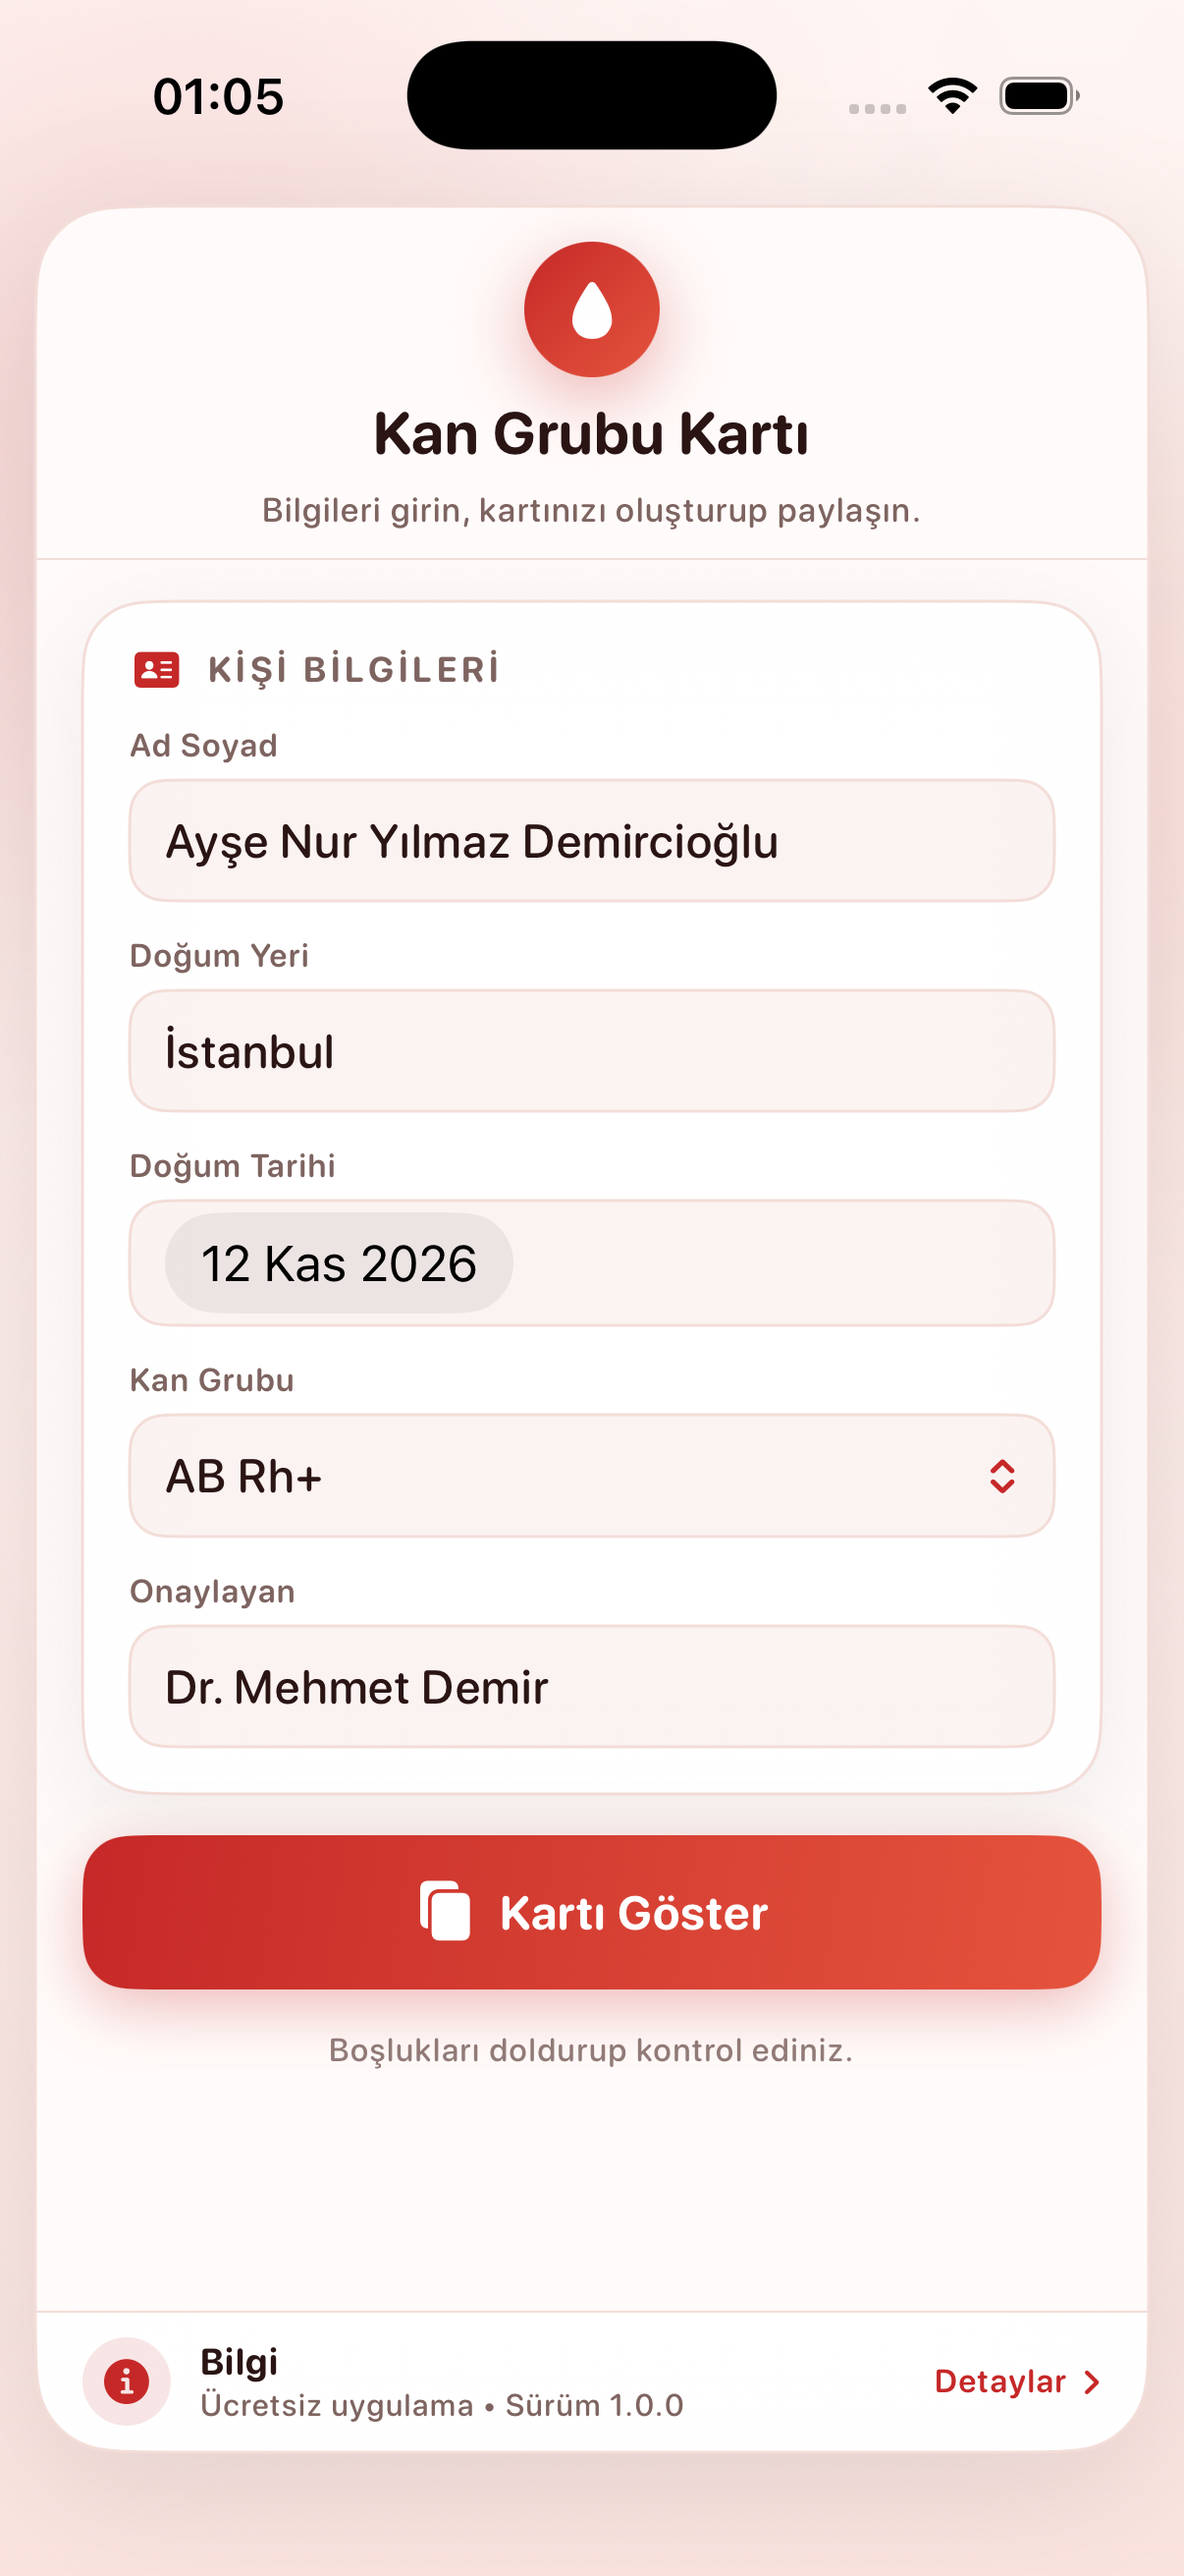
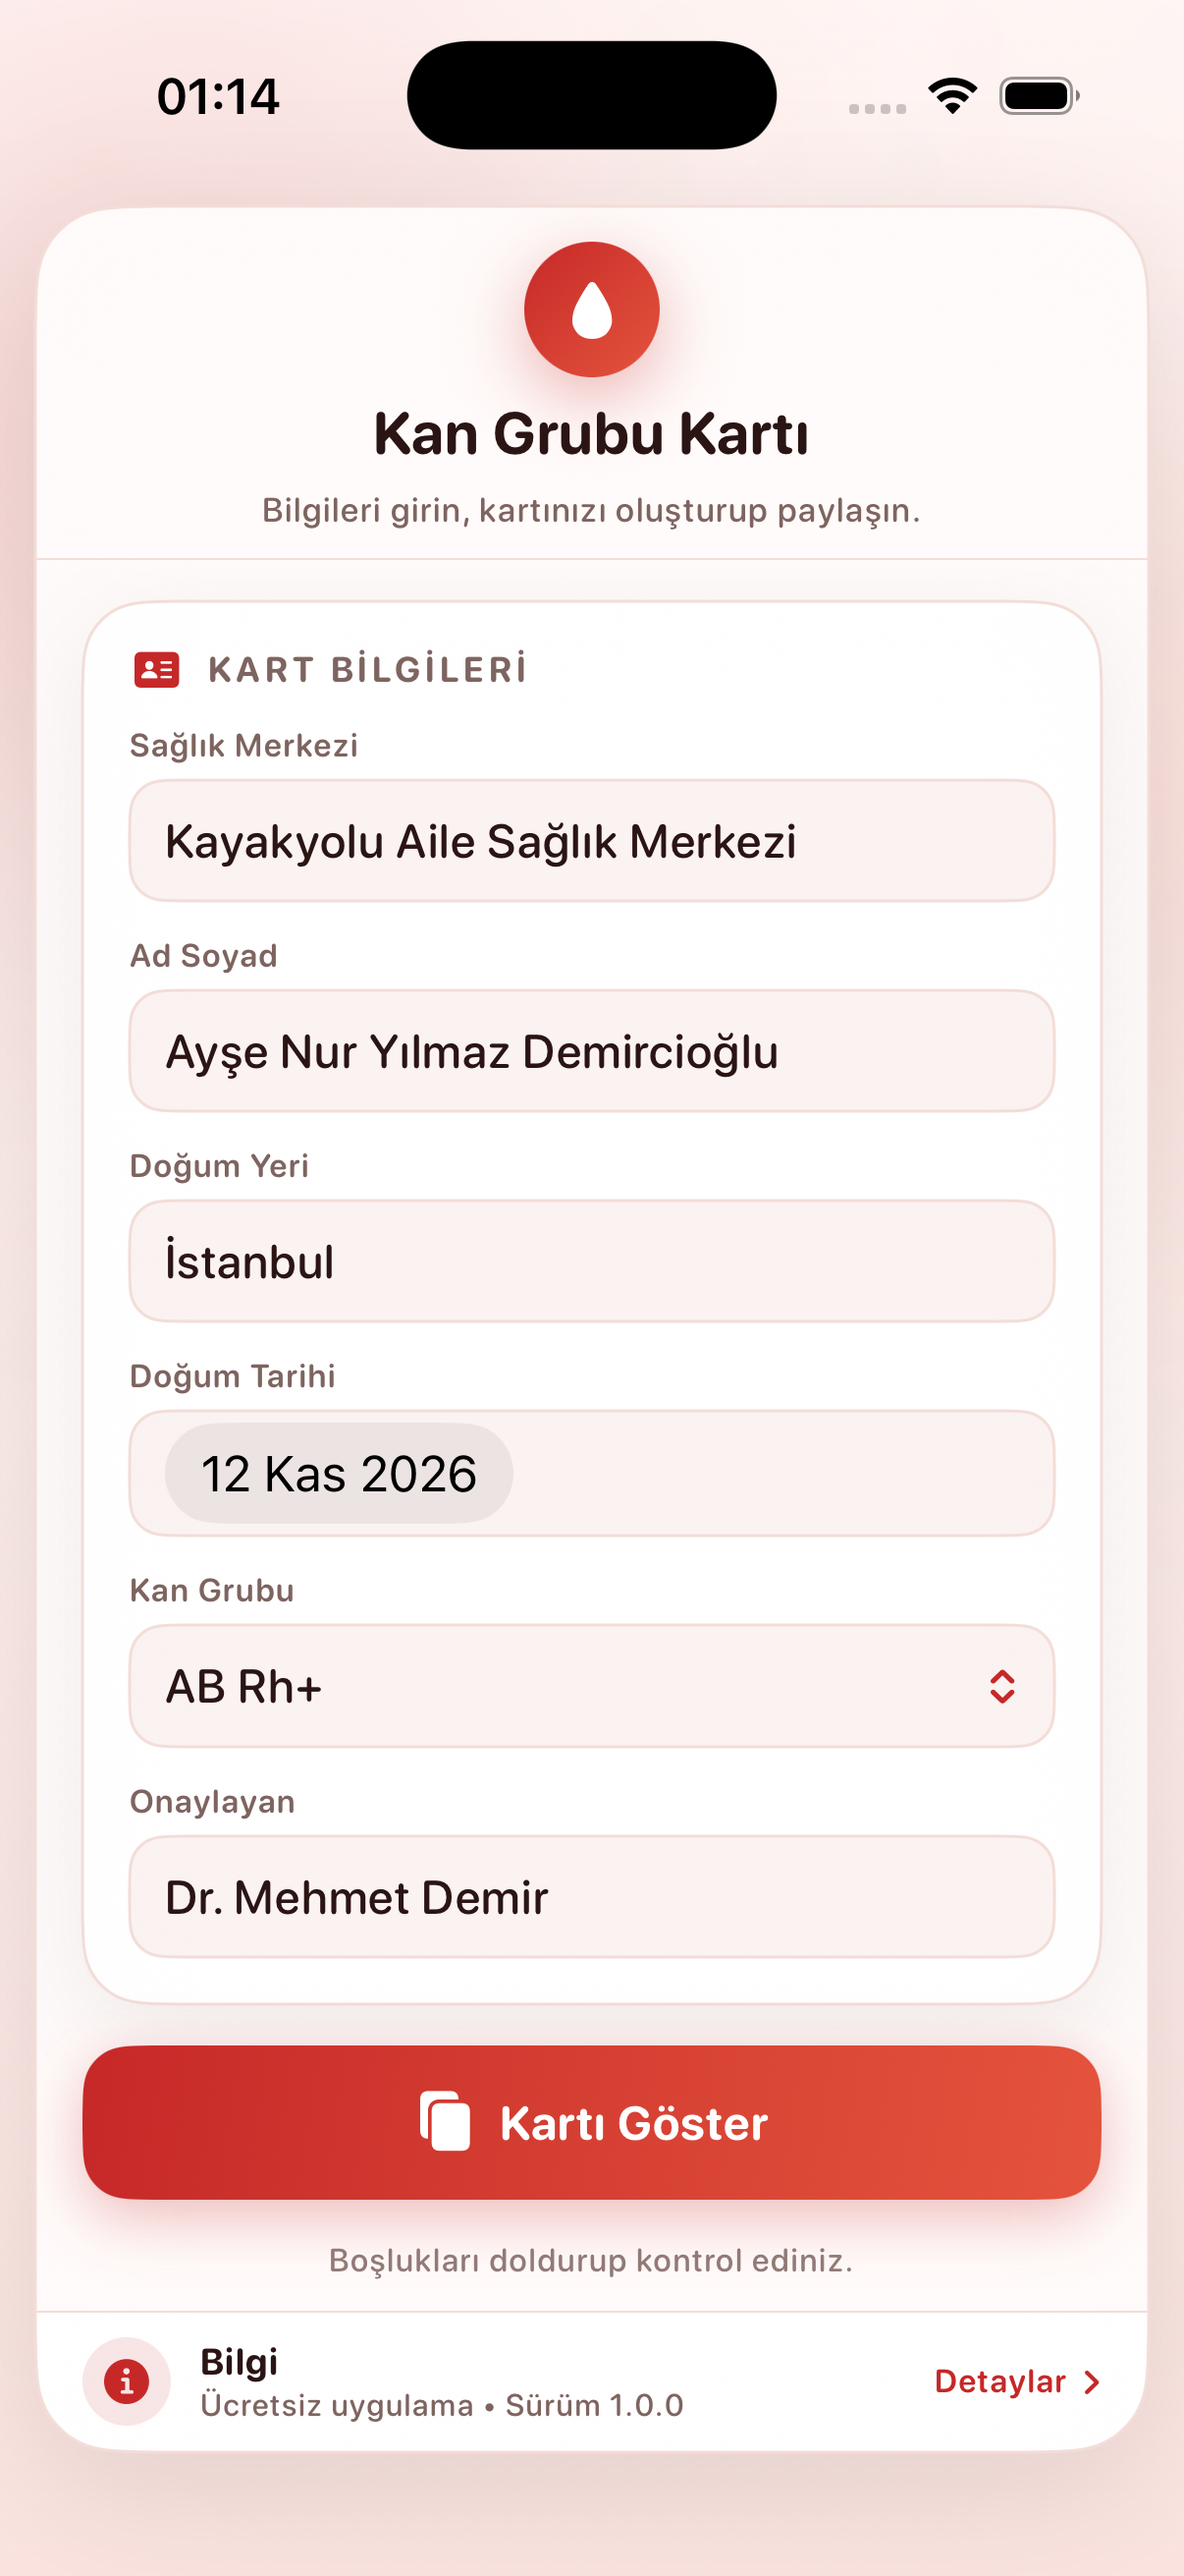
Sağlık merkezi kullanıcı girdisi oldu
- Formun başına Sağlık Merkezi alanı eklendi (6 alan)
- Kartın üst başlığı sabit 'Kayakyolu Aile Sağlık Merkezi' yerine bu alandan geliyor
- Bölüm başlığı 'Kart Bilgileri' olarak güncellendi
- 5 dilde yeni etiket ve yer tutucular; kg.kartMerkez anahtarı kaldırıldı
- README/README.tr ve form/kart ekran görüntüleri güncellendi

diff --git a/Kan Grubu Kartı/ContentView.swift b/Kan Grubu Kartı/ContentView.swift
@@ -47,6 +47,7 @@ private extension UIColor {
 struct ContentView: View {
     @EnvironmentObject private var dil: Yerellestirme
 
+    @State private var saglikMerkezi = ""
     @State private var adSoyad = ""
     @State private var dogumYeri = ""
     @State private var dogumTarihi = Date()
@@ -169,6 +170,10 @@ struct ContentView: View {
         VStack(alignment: .leading, spacing: 12) {
             BolumBasligi(ikon: "person.text.rectangle.fill", baslik: dil.metin("kg.kisiBilgileri"))
 
+            AlanSatiri(baslik: dil.metin("kg.saglikMerkezi"),
+                       placeholder: dil.metin("kg.saglikMerkeziIpucu"),
+                       metin: $saglikMerkezi)
+
             AlanSatiri(baslik: dil.metin("kg.adSoyad"),
                        placeholder: dil.metin("kg.adSoyadIpucu"),
                        metin: $adSoyad)
@@ -226,7 +231,8 @@ struct ContentView: View {
                         ionayDr: onaylayan,
                         idYeri: dogumYeri,
                         idTarihi: dogumTarihi,
-                        ikangrubu: kanGrubu)
+                        ikangrubu: kanGrubu,
+                        merkez: saglikMerkezi)
         } label: {
             HStack(spacing: 8) {
                 Image(systemName: "rectangle.portrait.on.rectangle.portrait.fill")

diff --git a/Kan Grubu Kartı/İkiniSayfa.swift b/Kan Grubu Kartı/İkiniSayfa.swift
@@ -12,6 +12,7 @@ struct ikinciSayfa: View {
     var idYeri: String
     var idTarihi = Date()
     var ikangrubu: String
+    var merkez: String
 
     @State private var kartResmi: UIImage?
 
@@ -190,11 +191,11 @@ struct ikinciSayfa: View {
                         .foregroundStyle(kartKirmizi)
                 }
 
-                Text(dil.metin("kg.kartMerkez"))
+                Text(deger(merkez))
                     .font(.system(size: 13, weight: .semibold, design: .rounded))
                     .foregroundStyle(kartMetin)
                     .lineLimit(1)
-                    .minimumScaleFactor(0.75)
+                    .minimumScaleFactor(0.65)
 
                 Spacer(minLength: 0)
 

diff --git a/README.tr.md b/README.tr.md
@@ -25,7 +25,7 @@
 
 ## Genel bakış
 
-**Kan Grubu Kartı**, kişisel bir kan grubu kartı oluşturan küçük bir SwiftUI uygulamasıdır. Ad soyad, doğum yeri, doğum tarihi, kan grubu ve onaylayan hekim bilgilerini girersiniz; uygulama kartı yüksek çözünürlüklü bir görsel olarak oluşturur. Görsel Fotoğraflar'a kaydedilebilir veya aile, okul, iş yeri ya da acil durum kişisiyle paylaşılabilir.
+**Kan Grubu Kartı**, kişisel bir kan grubu kartı oluşturan küçük bir SwiftUI uygulamasıdır. Sağlık merkezi, ad soyad, doğum yeri, doğum tarihi, kan grubu ve onaylayan hekim bilgilerini girersiniz; uygulama kartı yüksek çözünürlüklü bir görsel olarak oluşturur. Görsel Fotoğraflar'a kaydedilebilir veya aile, okul, iş yeri ya da acil durum kişisiyle paylaşılabilir.
 
 Kart, resmî bir tıbbi belgenin yerini tutmaz. Telefonda taşınmak veya paylaşılan görselden yazdırılmak üzere tasarlanmış, hızlı ve okunaklı bir özettir.
 
@@ -35,7 +35,7 @@ Acil bir durumda kan grubu, müdahale eden kişinin ilk ihtiyaç duyabileceği b
 
 Bu uygulama, **yeniden oluşturulması ve paylaşılması kolay, açıkça etiketlenmiş kişisel bir kart** sunar:
 
-- **Bir kez doldur** — beş kısa alan.
+- **Bir kez doldur** — altı kısa alan.
 - **Anında önizle** — kart, yazdırıldığında veya yakınlaştırıldığında net görünsün diye 3× (1200 × 750 px) oluşturulur.
 - **Her yerde paylaş** — iOS paylaşım sayfası Mesajlar, Mail, AirDrop, Fotoğraflar ve yazdırmayı kapsar.
 - **Hesap yok** — hiçbir şey yüklenmez; kart yalnızca uygulamayı kullandığınız sürece vardır.
@@ -66,7 +66,7 @@ Bu bir kolaylık aracıdır; **resmî kimlik veya tıbbi belge değildir**.
 
 ## Özellikler
 
-- **Beş alanlı form** — ad soyad, doğum yeri, doğum tarihi, kan grubu ve onaylayan hekim.
+- **Altı alanlı form** — sağlık merkezi, ad soyad, doğum yeri, doğum tarihi, kan grubu ve onaylayan hekim.
 - **Sekiz kan grubu** — A, B, AB ve O'nun Rh+ ve Rh− seçenekleri, yerel menüden seçilir. Kartta uluslararası gösterim kullanılır, ör. `AB Rh+`.
 - **Canlı kart önizlemesi** — kart `ImageRenderer` ile 3× oluşturulur ve ekrana ölçeklenerek gösterilir.
 - **Paylaş veya kaydet** — `ShareLink` sistem paylaşım sayfasını kart görseliyle açar; “Görseli Kaydet” ile Fotoğraflar'a eklenir.
@@ -97,7 +97,7 @@ Storyboard veya görsel değişikliği gerekmez.
 
 Bu belgedeki buton adları Türkçe gösterilmiştir; uygulama seçili dilde aynı terimleri kullanır.
 
-1. Uygulamayı açın ve **Ad Soyad**, **Doğum Yeri**, **Doğum Tarihi**, **Kan Grubu** ve **Onaylayan** alanlarını doldurun.
+1. Uygulamayı açın ve **Sağlık Merkezi**, **Ad Soyad**, **Doğum Yeri**, **Doğum Tarihi**, **Kan Grubu** ve **Onaylayan** alanlarını doldurun.
 2. **Kartı Göster** butonuna dokunun. Kart önizlemesi ekranın ortasında görünür.
 3. **Kartı Paylaş veya Kaydet** butonuna dokunun.
 4. Paylaşım sayfasında **Görseli Kaydet** ile Fotoğraflar'a kaydedin veya Mesajlar, Mail ya da AirDrop ile gönderin.
@@ -109,7 +109,7 @@ Bu belgedeki buton adları Türkçe gösterilmiştir; uygulama seçili dilde ayn
 
 | Satır | Kaynak |
 |---|---|
-| Üst başlık | “Kayakyolu Aile Sağlık Merkezi” |
+| Sağlık Merkezi | Sağlık merkezi alanı (kartın üst başlığı olarak gösterilir) |
 | Kart başlığı | “Kan Grubu Kartı” |
 | Adı Soyadı | Ad soyad alanı |
 | Doğum Tarihi | Tarih seçici, seçili dile göre biçimlendirilir |
@@ -208,7 +208,7 @@ xcodebuild -project "Kan Grubu Kartı.xcodeproj" \
 - Uygulama girilen bilgileri doğrulamaz. Kart, yalnızca yazdığınız kadar doğrudur.
 - Onaylayan hekim alanı serbest metindir; kart o hekim tarafından doğrulanmış veya imzalanmış sayılmaz.
 - Kayıtlı kart geçmişi yoktur — ihtiyaç duyduğunuzda görseli yeniden oluşturun.
-- “Kayakyolu Aile Sağlık Merkezi” başlığı kart tasarımının parçasıdır; farklı bir kurum kullanıyorsanız her dilin `Localizable.strings` dosyasındaki `kg.kartMerkez` anahtarını değiştirebilirsiniz.
+- Kartın üst başlığı **Sağlık Merkezi** alanından gelir; sabit bir kurum adı yoktur, bu yüzden aynı sürüm her klinik veya iş yeri için kullanılabilir.
 - Proje geliştirme aşamasındadır; uygulama içindeki bilgi paneli de bunu belirtir.
 
 ## Sorumluluk reddi

diff --git a/README.md b/README.md
@@ -25,7 +25,7 @@
 
 ## Overview
 
-**Kan Grubu Kartı** (Turkish for *Blood Group Card*) is a small SwiftUI app that creates a personal blood group card. You enter your name, place and date of birth, blood group and the approving doctor; the app renders a card as a high-resolution image that can be saved to Photos or shared with family, school, workplace or an emergency contact.
+**Kan Grubu Kartı** (Turkish for *Blood Group Card*) is a small SwiftUI app that creates a personal blood group card. You enter the health centre, your name, place and date of birth, blood group and the approving doctor; the app renders a card as a high-resolution image that can be saved to Photos or shared with family, school, workplace or an emergency contact.
 
 The card is not a replacement for an official medical document. It is a quick, readable summary designed to be kept on a phone or printed from the shared image.
 
@@ -35,7 +35,7 @@ In an emergency, blood group is one of the first things a responder may need —
 
 This app makes a **personal, clearly-labelled card** that is easy to regenerate and easy to share:
 
-- **Fill once** — five short fields.
+- **Fill once** — six short fields.
 - **Preview instantly** — the card is rendered at 3× (1200 × 750 px) for crisp text when printed or zoomed.
 - **Share anywhere** — the iOS share sheet covers Messages, Mail, AirDrop, Photos and printing.
 - **No account** — nothing is uploaded; the card exists only while you use the app.
@@ -66,7 +66,7 @@ It is a convenience tool, **not** an official identity or medical document.
 
 ## Features
 
-- **Five-field form** — name, place of birth, date of birth, blood group and approving doctor.
+- **Six-field form** — health centre, name, place of birth, date of birth, blood group and approving doctor.
 - **Eight blood groups** — A, B, AB and O, each with Rh+ and Rh−, chosen from a native menu. The card uses the international notation, e.g. `AB Rh+`.
 - **Live card preview** — the card is rendered with `ImageRenderer` at 3× and shown scaled to the screen.
 - **Share or save** — `ShareLink` opens the system share sheet with the card image; “Save Image” puts it in Photos.
@@ -97,7 +97,7 @@ No storyboard or asset changes are needed.
 
 Button names in this README are shown in Turkish; the app uses the same terms in the selected language.
 
-1. Open the app and fill in **Ad Soyad**, **Doğum Yeri**, **Doğum Tarihi**, **Kan Grubu** and **Onaylayan**.
+1. Open the app and fill in **Sağlık Merkezi**, **Ad Soyad**, **Doğum Yeri**, **Doğum Tarihi**, **Kan Grubu** and **Onaylayan**.
 2. Tap **Kartı Göster**. The card preview appears, centered on the screen.
 3. Tap **Kartı Paylaş veya Kaydet**.
 4. In the share sheet choose **Save Image** to keep it in Photos, or send it via Messages, Mail or AirDrop.
@@ -109,7 +109,7 @@ Button names in this README are shown in Turkish; the app uses the same terms in
 
 | Row | Source |
 |---|---|
-| Header | “Kayakyolu Aile Sağlık Merkezi” |
+| Sağlık Merkezi | Health centre field (shown as the card header) |
 | Title | “Kan Grubu Kartı” |
 | Adı Soyadı | Name field |
 | Doğum Tarihi | Date picker, formatted according to the selected language |
@@ -208,7 +208,7 @@ xcodebuild -project "Kan Grubu Kartı.xcodeproj" \
 - The app does not verify the entered information. The card is only as accurate as what you type.
 - The approving doctor field is free text; the card is not validated or signed by that person.
 - There is no saved-card history — regenerate the image whenever you need it.
-- The header “Kayakyolu Aile Sağlık Merkezi” is part of the card design; it is translated in each `Localizable.strings` (key `kg.kartMerkez`) if you use a different institution.
+- The card header comes from the **Sağlık Merkezi** field; no institution is hardcoded, so the same build works for any clinic or workplace.
 - The project is under active development; the in-app info sheet says so.
 
 ## Disclaimer
